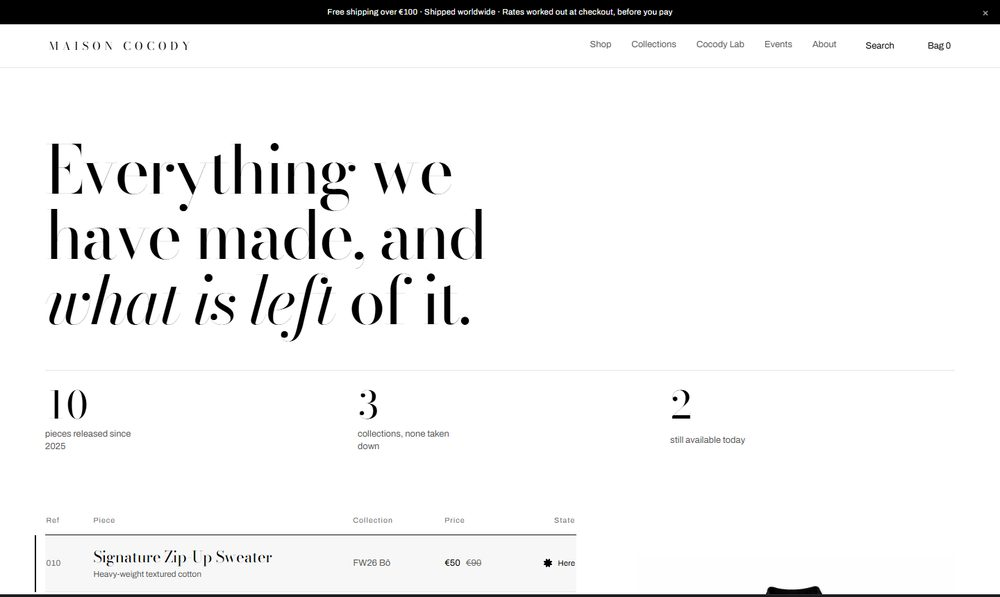
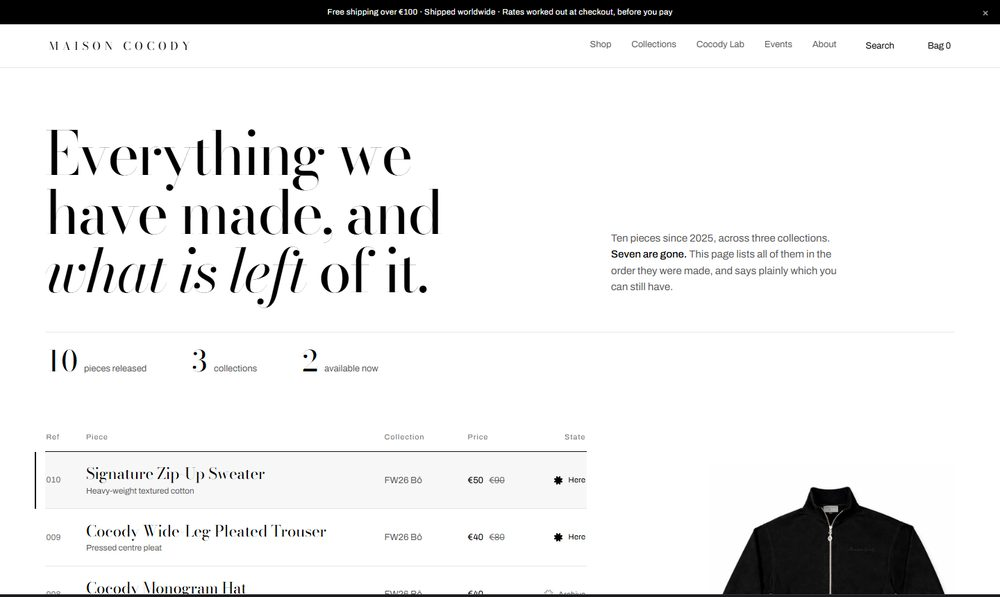
Direction D: fix the composition
The palette was right; the proportions were not.

- the opening was half empty, so the thesis now sits to the right of
  the headline on the same baseline and states what the page is for
- the register was elastic and stretched to the full container, opening
  a void between each piece and its collection; it is now capped at a
  controlled measure so the columns sit together
- the figures were spread across the page with labels wrapping badly;
  they are now a tight cluster with terse labels that do not wrap
- the plate is capped and right-aligned rather than oversized
- tighter vertical rhythm between sections

diff --git a/assets/css/dir-d.css b/assets/css/dir-d.css
@@ -43,7 +43,7 @@
   --gut: clamp(1rem, 4.5vw, 4.5rem);
 }
 .d ::selection { background: var(--ink); color: var(--paper); }
-.d__wrap { width: min(100% - 2 * var(--gut), 1460px); margin-inline: auto; }
+.d__wrap { width: min(100% - 2 * var(--gut), 1360px); margin-inline: auto; }
 .d h1, .d h2, .d h3 { font-family: var(--display); font-weight: 400; }
 
 /* ---------- masthead ---------- */
@@ -70,41 +70,57 @@
 /* ---------- the standing ----------
    Most of the catalogue is gone. Saying so plainly, in figures, is the
    strongest opening this brand has. */
-.d__standing { padding-block: clamp(3.5rem, 11vh, 7.5rem) clamp(2rem, 5vh, 3rem); }
+.d__standing { padding-block: clamp(3rem, 9vh, 6rem) clamp(1.5rem, 4vh, 2.5rem); }
+/* The headline sits left; the thesis sits right, on the same baseline.
+   Left alone, the top of this page was half empty. */
+.d__standing-grid {
+  display: grid; grid-template-columns: 1.5fr 1fr;
+  gap: clamp(1.5rem, 5vw, 4.5rem); align-items: end;
+}
+@media (max-width: 900px) { .d__standing-grid { grid-template-columns: 1fr; } }
 .d__standing h1 {
-  font-size: clamp(2.2rem, 7vw, 6rem);
+  font-size: clamp(2.2rem, 6.4vw, 5.4rem);
   line-height: .98; letter-spacing: -0.032em;
   font-variation-settings: 'opsz' 96;
-  max-width: 16ch; text-wrap: balance;
+  max-width: 15ch; text-wrap: balance;
 }
 .d__standing h1 em { font-style: italic; }
+.d__thesis {
+  font-size: .9375rem; color: var(--quiet); max-width: 38ch;
+  padding-bottom: .5rem;
+}
+.d__thesis b { color: var(--ink); font-weight: 500; }
+
+/* the figures: a tight cluster, terse labels, no ragged wrapping */
 .d__standing-row {
-  display: grid; grid-template-columns: repeat(auto-fit, minmax(170px, 1fr));
-  gap: clamp(1.25rem, 3vw, 2.5rem);
-  margin-top: clamp(2rem, 6vh, 3.5rem);
-  padding-top: 1.4rem; border-top: 1px solid var(--rule);
+  display: flex; flex-wrap: wrap; gap: clamp(2rem, 5vw, 4rem);
+  margin-top: clamp(1.75rem, 5vh, 3rem);
+  padding-top: 1.3rem; border-top: 1px solid var(--rule);
 }
-.d__fig { display: grid; gap: .3rem; }
+.d__fig { display: flex; align-items: baseline; gap: .6rem; }
 .d__fig b {
-  font-family: var(--display); font-size: clamp(2rem, 4.2vw, 3.4rem);
+  font-family: var(--display); font-size: clamp(1.75rem, 3.2vw, 2.6rem);
   font-weight: 400; line-height: 1; font-variant-numeric: tabular-nums;
-  font-variation-settings: 'opsz' 72; letter-spacing: -0.02em;
+  font-variation-settings: 'opsz' 60; letter-spacing: -0.02em;
 }
-.d__fig span { font-size: .8125rem; color: var(--quiet); max-width: 20ch; line-height: 1.4; }
+.d__fig span { font-size: .8125rem; color: var(--quiet); white-space: nowrap; }
 
 /* ---------- the register ---------- */
-.d__reg { display: grid; grid-template-columns: 1.25fr .75fr; gap: clamp(2rem, 6vw, 5.5rem); align-items: start; }
+/* The register is capped rather than elastic. Left as 1fr it stretched
+   to the full container and opened a void between the piece name and
+   its collection. A table reads at a controlled measure. */
+.d__reg { display: grid; grid-template-columns: minmax(0, 780px) minmax(0, 1fr); gap: clamp(2rem, 5vw, 4.5rem); align-items: start; }
 @media (max-width: 980px) { .d__reg { grid-template-columns: 1fr; } }
 
 .d__reg-head {
-  display: grid; grid-template-columns: 3rem 1fr 7rem 5.5rem 5rem;
-  gap: 1.25rem; padding: 0 .1rem .7rem;
+  display: grid; grid-template-columns: 2.6rem minmax(0,1fr) 6.5rem 5rem 4.6rem;
+  gap: 1rem; padding: 0 .1rem .7rem;
   font-size: .66rem; letter-spacing: .1em; color: var(--quieter);
   border-bottom: 1px solid var(--rule-hard);
 }
 .d__row {
-  display: grid; grid-template-columns: 3rem 1fr 7rem 5.5rem 5rem;
-  gap: 1.25rem; align-items: center;
+  display: grid; grid-template-columns: 2.6rem minmax(0,1fr) 6.5rem 5rem 4.6rem;
+  gap: 1rem; align-items: center;
   padding: 1.15rem .1rem; border-bottom: 1px solid var(--rule);
   text-decoration: none; color: inherit; position: relative;
   transition: background var(--t-fast) var(--ease-out);
@@ -149,7 +165,7 @@
 /* ---------- the plate ----------
    No frame. The pack shots are on white and the page is white, so the
    piece simply stands on it, the way it stands on the seamless. */
-.d__plate { position: sticky; top: 6rem; }
+.d__plate { position: sticky; top: 6rem; max-width: 460px; margin-left: auto; }
 @media (max-width: 980px) { .d__plate { display: none; } }
 .d__plate-frame { position: relative; aspect-ratio: 4 / 5; overflow: hidden; }
 .d__plate-frame img {
@@ -167,7 +183,7 @@
 .d__plate-cap b { font-weight: 500; font-variant-numeric: tabular-nums; margin-right: .5rem; }
 
 /* ---------- chapters ---------- */
-.d__section { padding-block: clamp(3.5rem, 10vh, 7.5rem); }
+.d__section { padding-block: clamp(3rem, 8vh, 6rem); }
 .d__head {
   display: flex; justify-content: space-between; align-items: baseline; gap: 1.5rem; flex-wrap: wrap;
   padding-bottom: 1rem; margin-bottom: clamp(1.75rem, 4vh, 2.75rem);

diff --git a/directions/d-le-registre.html b/directions/d-le-registre.html
@@ -39,11 +39,14 @@
   <!-- Seven of ten pieces are gone. Leading with that turns a thin
        shop into a track record, and it is simply true. -->
   <section class="d__standing d__wrap" id="top">
-    <h1>Everything we have made, and <em>what is left</em> of it.</h1>
+    <div class="d__standing-grid">
+      <h1>Everything we have made, and <em>what is left</em> of it.</h1>
+      <p class="d__thesis">Ten pieces since 2025, across three collections. <b>Seven are gone.</b> This page lists all of them in the order they were made, and says plainly which you can still have.</p>
+    </div>
     <div class="d__standing-row">
-      <span class="d__fig"><b data-n-pieces>10</b><span>pieces released since 2025</span></span>
-      <span class="d__fig"><b data-n-collections>3</b><span>collections, none taken down</span></span>
-      <span class="d__fig"><b data-n-here>2</b><span>still available today</span></span>
+      <span class="d__fig"><b data-n-pieces>10</b><span>pieces released</span></span>
+      <span class="d__fig"><b data-n-collections>3</b><span>collections</span></span>
+      <span class="d__fig"><b data-n-here>2</b><span>available now</span></span>
     </div>
   </section>
 
